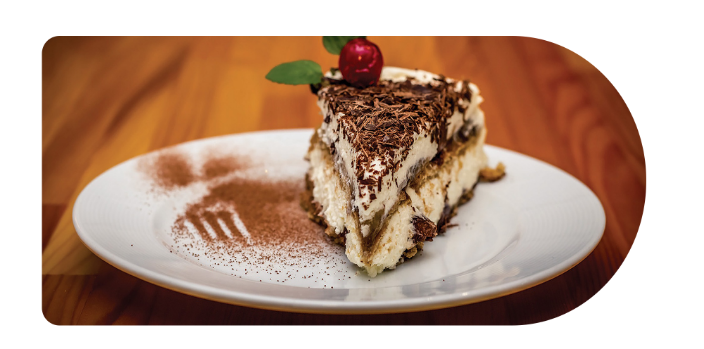
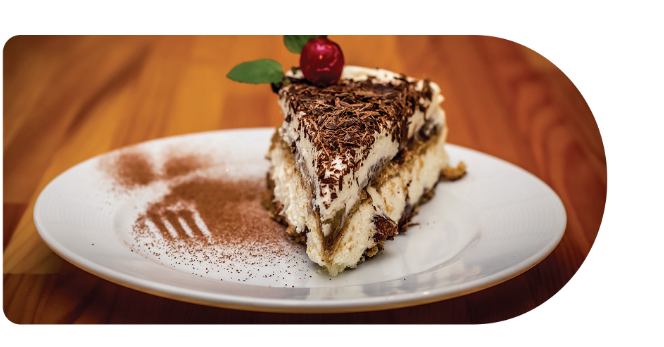
responsive login register forgot page

diff --git a/index.html b/index.html
@@ -53,14 +53,14 @@
                <h2 class="font-weight-bold mt-5" >No More Worry About Unhygienic Restaurant Food</h2><br>
                <p style="text-align: justify">Lorem Ipsum is simply dummy text of the printing and typesetting industry. Lorem Ipsum has been the industry's standard dummy text ever since the 1500s, when an unknown printer took a galley of type and scrambled it to make a type specimen book.</p>
             </div>
-            <div class="col-md-7 middleImage">
-                <img style="position: relative; margin-left: 50px;"  class="img-fluid " src="img/Food%20Box.png" alt="">
+            <div class="col-md-7 col-sm-10 offset-sm-1 offset-md-0">
+                <img class="img-fluid " src="img/Food%20Box.png" alt="">
             </div> 
         </div>
            <div class="row box">
 
-            <div class="col-md-7 middleImage">
-                <img style="position: relative; margin-left: -35px" class="img-fluid " src="img/Food%20Box%202.png" alt="">
+            <div class="col-md-7 col-sm-10 offset-sm-1 offset-md-0">
+                <img class="img-fluid " src="img/Food%20Box%202.png" alt="">
             </div> 
             <div class="col-md-5">
                <h2 class="font-weight-bold mt-5 " >Prepare Your Desired Food At Home</h1><br>
@@ -166,7 +166,7 @@
                 </div>
             </div>
             <div class="text-center mt-5">
-                <button class="viewAll" >View All</button>
+                <button class="buttonCss" >View All</button>
             </div>
         </div>
     </div>
@@ -190,7 +190,7 @@
                             <p style="font-size: 18px; color: #808080; text-align: justify">We will take care of your regular food routine. Just make a diet plan. Your ingredients with detailed recipe will be at your door at right time.Just follow the instructions and prepare your food in a short time period.Be a professionalchef to your family with our service.</p>
                         </div>
                         <div class="col-md-12 text-center mt-5">
-                            <button class="viewAll" >Make My Diet Plan</button>
+                            <button class="buttonCss" >Make My Diet Plan</button>
                         </div>
                     </div>
                 </div>
@@ -228,41 +228,41 @@
     
     <div class="container-fluid">
         <div class="row">
-        <div class="col-md-8 pl-5"><br><br>
-            <div class="row">
-                <img style="width: 20%;" src="img/Logo.png" alt="">
-            </div><br><br>
-            <div class="row">
-                <div class="col-md-4 fp">
-                    <h5 class="font-weight-bold">About Us</h5><br>
-                    <h6>MpgBazar, Rampura, </h6>
-                    <h6> Dhaka </h6>
-                    <h6>Phone: 01785499257</h6>
+            <div class="col-md-8 pl-5"><br><br>
+                <div class="row">
+                    <img style="width: 20%;" src="img/Logo.png" alt="">
+                </div><br><br>
+                <div class="row">
+                    <div class="col-md-4 fp">
+                        <h5 class="font-weight-bold">About Us</h5><br>
+                        <h6>MpgBazar, Rampura, </h6>
+                        <h6> Dhaka </h6>
+                        <h6>Phone: 01785499257</h6>
+                    </div>
+                    <div class="col-md-4 fp">
+                        <h5 class="font-weight-bold">Contact Us</h5><br>
+                        <h6>FAQ</h6>
+                        <h6>Shopping Instruction</h6>
+                        <h6>Need Help</h6>
+                    </div>
+                    <div class="col-md-4 fp">
+                        <h5 class="font-weight-bold">Privacy Policy</h5><br>
+                        <h6>Privacy</h6>
+                        <h6>Accessibility</h6>
+                        <h6>Copyright</h6>
+                        <h6>Disclaimer</h6>
+                    </div>
                 </div>
-                <div class="col-md-4 fp">
-                    <h5 class="font-weight-bold">Contact Us</h5><br>
-                    <h6>FAQ</h6>
-                    <h6>Shopping Instruction</h6>
-                    <h6>Need Help</h6>
+                <div class="row mb-4">
+                    <div class="col-md-12 fp">
+                        <h6>Copyright @ All right reserved</h6>
+                    </div>
                 </div>
-                <div class="col-md-4 fp">
-                    <h5 class="font-weight-bold">Privacy Policy</h5><br>
-                    <h6>Privacy</h6>
-                    <h6>Accessibility</h6>
-                    <h6>Copyright</h6>
-                    <h6>Disclaimer</h6>
-                </div>
-            </div>
-            <div class="row">
-                <div class="col-md-12 fp">
-                    <h6>Copyright @ All right reserved</h6>
-                </div>
-            </div>
 
-        </div>
-        <div class="col-md-4">
-            <img class="FImage" src="img/Group%201.png" alt="">
-        </div>
+            </div>
+            <div class="col-md-4 col-sm-6 col-6 offset-6 offset-md-0 offset-sm-6">
+                <img class="FImage" src="img/Group%201.png" alt="">
+            </div>
         </div>
     </div>
     

diff --git a/register.html b/register.html
@@ -22,7 +22,7 @@
             <div class="col-md-3"></div>  
         </div><br><br><br>
 
-        <div class="row box mt-5">
+        <div class="row box mt-4">
             <div class="col-md-5 col-sm-10 offset-md-0 offset-sm-1 text-center">
                 <img class="registerPhoto" src="img/6459.jpg" alt="">
             </div>
@@ -30,35 +30,35 @@
             
             <div class="col-md-7">
                 <div class="container-fluid">
-                   <div class="row mt-5">
+                   <div class="row mt-4">
                         <div class="col-md-12 offset-md-0">
                             <h1 class="text-center">Create A New Account</h1>
                         </div>
-                   </div>
+                   </div><br>
                     <div class="row">
-                        <div class="col-md-6 col-sm-8 offset-md-0 offset-sm-2" >
-                            <input  class="form-control mx-auto mt-4" type="text" placeholder="First Name">
+                        <div class="col-md-4 col-sm-6 offset-md-1 offset-sm-3 mt-4" >
+                            <input  class="form-control formInput mx-auto" type="text" placeholder="First Name">
                         </div>
-                        <div class="col-md-6 col-sm-8 offset-md-0 offset-sm-2">
-                            <input  class="form-control mx-auto mt-4" type="text" placeholder="Last Name">
+                        <div class="col-md-4 col-sm-6 offset-md-1 offset-sm-3 mt-4">
+                            <input  class="form-control formInput mx-auto" type="text" placeholder="Last Name">
                         </div>
                     </div>
                     
                     <div class="row">
-                        <div class="col-md-6 col-sm-8 offset-md-0 offset-sm-2 mt-4 ">
-                            <input  class="form-control mx-auto" type="text" placeholder="Email">
+                        <div class="col-md-4 col-sm-6 offset-md-1 offset-sm-3 mt-4 ">
+                            <input  class="form-control formInput mx-auto" type="text" placeholder="Email">
                         </div>
-                        <div class="col-md-6 col-sm-8 offset-md-0 offset-sm-2 mt-4">
-                            <input  class="form-control mx-auto" type="text" placeholder="Phone">
+                        <div class="col-md-4 col-sm-6 offset-md-1 offset-sm-3 mt-4">
+                            <input  class="form-control formInput mx-auto" type="text" placeholder="Phone">
                         </div>
                     </div>
                     
                     <div class="row">
-                        <div class="col-md-6 col-sm-8 offset-md-0 offset-sm-2 mt-4">
-                            <input  class="form-control mx-auto " type="text" placeholder="Password">
+                        <div class="col-md-4 col-sm-6 offset-md-1 offset-sm-3 mt-4">
+                            <input  class="form-control formInput mx-auto " type="text" placeholder="Password">
                         </div>
-                        <div class="col-md-6 col-sm-8 offset-md-0 offset-sm-2 mt-4">
-                            <input  class="form-control mx-auto " type="text" placeholder="Conform Password">
+                        <div class="col-md-4 col-sm-6 offset-md-1 offset-sm-3 mt-4">
+                            <input  class="form-control formInput mx-auto " type="text" placeholder="Conform Password">
                         </div>
                     </div>
                     

diff --git a/style.css b/style.css
@@ -31,16 +31,6 @@ h2{
 .fp{
     color: #b30000;
 }
-
-.viewAll{
-    color:white; 
-    background-color: #b30000;
-    padding: 5px 25px 5px 25px;
-    margin: 0 auto;
-    border: none;
-    
-        
-}
 .ABChocolate{
     width: 100%; 
     height: 92%; 
@@ -58,6 +48,7 @@ h2{
     background-color: #b30000;
     color: white;
 }
+
 .boxButton{
     border: 1px solid white;
     background-color: #b30000;
@@ -81,20 +72,11 @@ h2{
 .FImage{
     width: 100%; 
     height: 100%;
+    margin-left: 15px;
 }
-
-.topImage{
-    padding-right: 0px;
-    padding-left: 0px;
-}
-
 
 .registerPhoto{
     width: 75%;
-}
-
-.formdiv{
-    width: 10%;
 }
 
 .formInput{
@@ -105,15 +87,6 @@ h2{
 
 .form-control::-webkit-input-placeholder { 
   color: #b30000;
-}
-
-
-@media only screen and (max-width : 767px) {
-    .middleImage{
-
-        display: flex;
-      justify-content: center;
-    }
 }
 
 @media only screen and (max-width : 1220px) {

diff --git a/forgotpassword.html b/forgotpassword.html
@@ -41,7 +41,7 @@
                     </div>
                     <div class="row text-center mt-5">
                         <div class="col-md-8 offset-md-2 col-sm-8 offset-sm-2">
-                            <input class="form-control mx-auto" type="text" placeholder="Email">
+                            <input class="form-control formInput mx-auto" type="text" placeholder="Email">
                         </div>
                     </div>
                     
